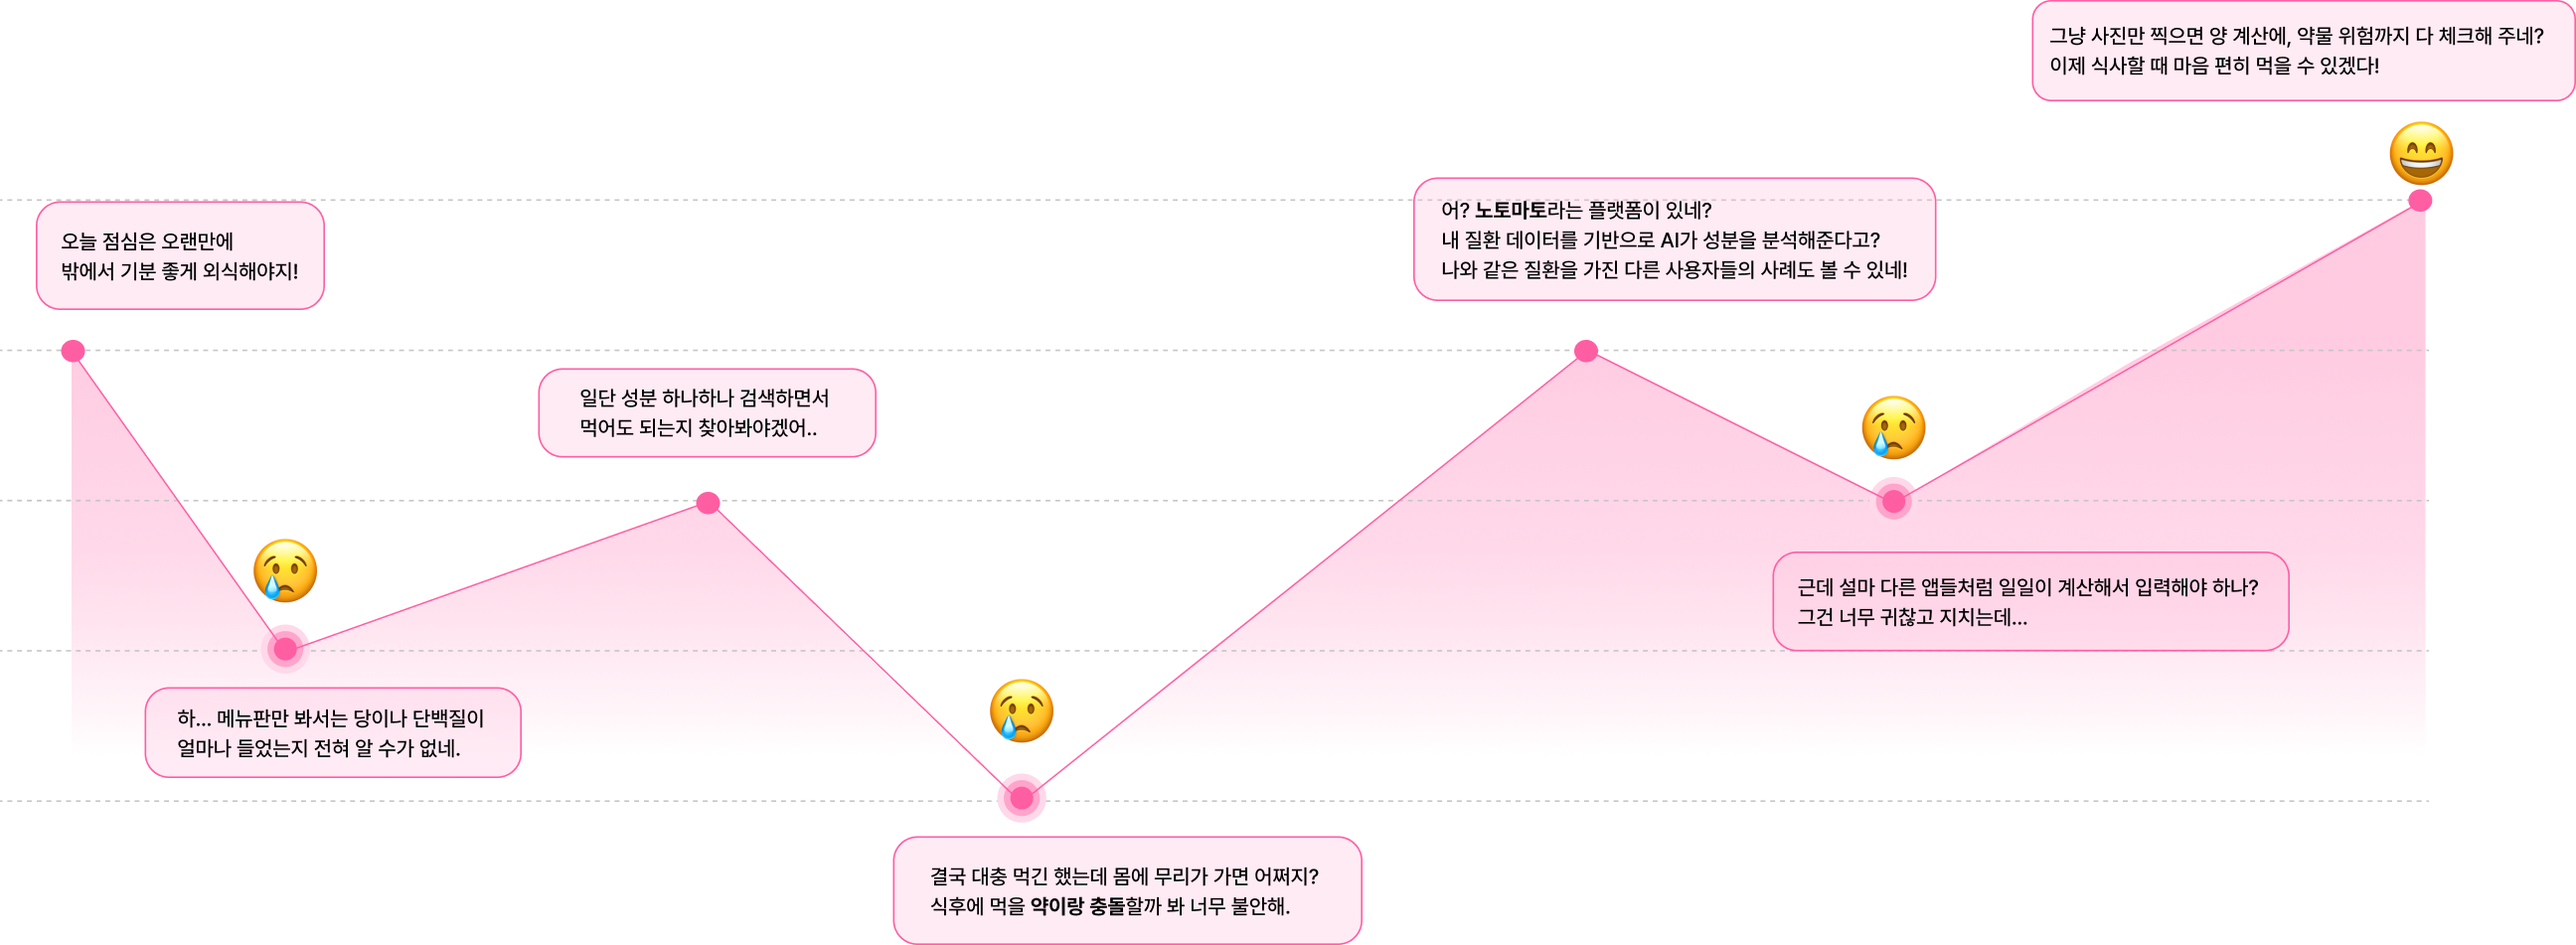
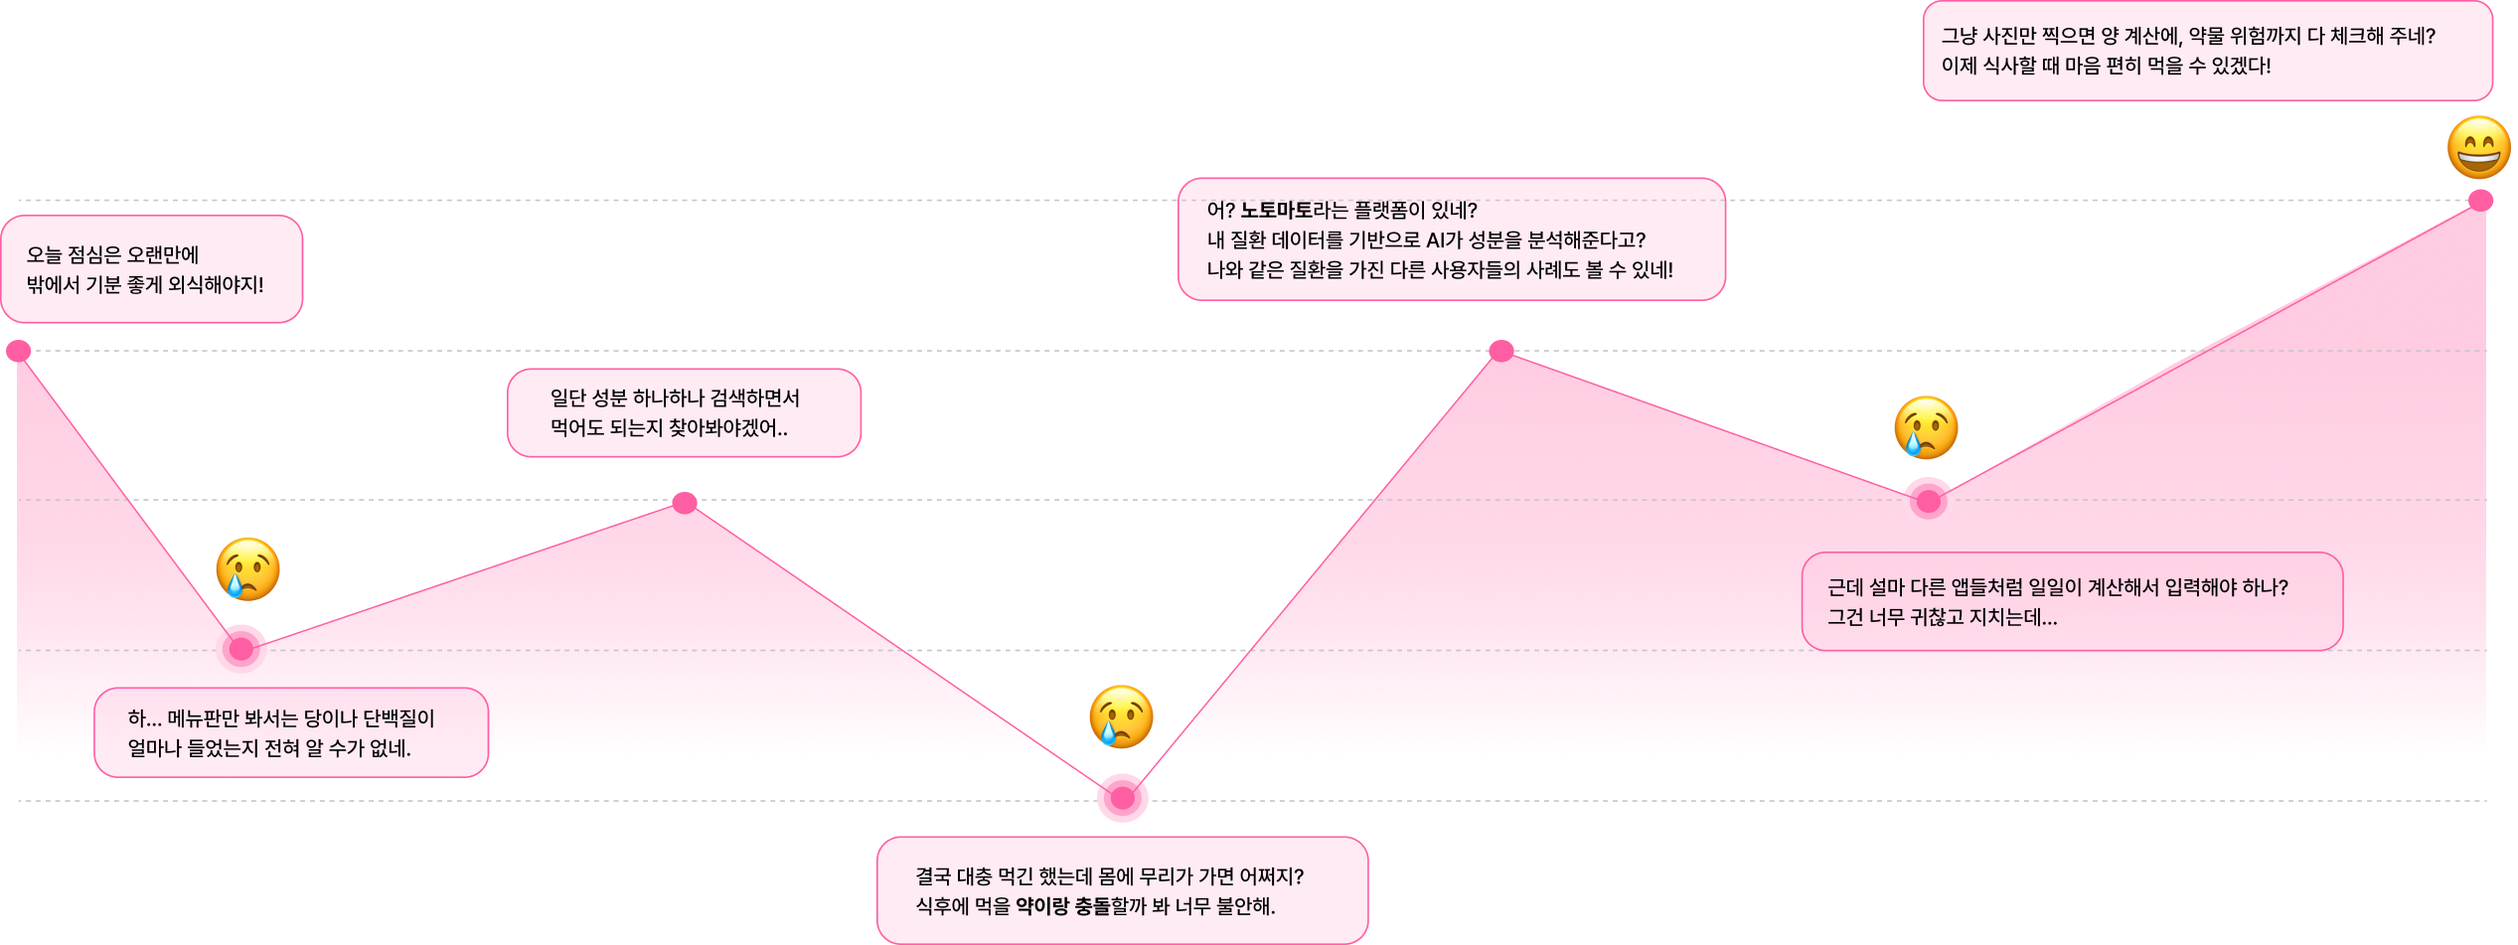
up

diff --git a/src/styles/appShowingPage.css b/src/styles/appShowingPage.css
@@ -224,8 +224,8 @@
 
 .home-visual {
   position: relative;
-  width: 86.8vw;
-  height: 88.5vw;
+  width: 66.8vw;
+  height: 95vw;
   margin: 4.8vw auto 0;
 }
 
@@ -235,6 +235,16 @@
   left: 53%;
   width: 51.4%;
   transform: translateX(-50%);
+}
+
+.home-combined-img {
+  position: absolute;
+  top: 0;
+  left: 50%;
+  z-index: 1;
+  width: 87.6%;
+  transform: translateX(-50%);
+  pointer-events: none;
 }
 
 .home-side-img {
@@ -274,22 +284,22 @@
 
 .home-note-left-copy {
   --copy-top: -50px;
-  --copy-left: 0;
+  --copy-left: -57%;
 }
 
 .home-note-mid-copy {
-  --copy-top: -20px;
-  --copy-left: 0;
+  --copy-top: -4px;
+  --copy-left: 15%;
 }
 
 .home-note-bottom-a-copy {
   --copy-top: 20px;
-  --copy-left: -70px;
+  --copy-left: -20%;
 }
 
 .home-note-bottom-b-copy {
-  --copy-top: -20px;
-  --copy-left: -16px;
+  --copy-top: -25px;
+  --copy-left: 2%;
 }
 
 .home-note-top-copy {
@@ -416,7 +426,7 @@
 
 .service-ai-diet-section {
   position: relative;
-  height: 132vw;
+  height: 150vw;
   padding: 8vw 6.7vw 7vw;
 }
 
@@ -439,19 +449,20 @@
 
 .service-ai-diet-map {
   position: absolute;
-  /* top: 3.8vw; */
-  left: 12.6vw;
+  top: 5%;
+  left: 50%;
   z-index: 1;
-  width: 74.6vw;
+  width: 80vw;
+  transform: translateX(-50%);
   pointer-events: none;
 }
 
 .diet-detail-group {
   position: absolute;
-  top: 71.8vw;
+  top: 73.5vw;
   left: 36.7vw;
   z-index: 2;
-  width: 55.8vw;
+  width: 22vw;
   padding-top: 0;
 }
 
@@ -463,7 +474,7 @@
 
 .diet-caption {
   position: absolute;
-  bottom: -122px;
+  bottom: 8.3vw;
   width: 28%;
   color: #333;
   text-align: center;
@@ -496,20 +507,20 @@
 } */
 
 .caption-one {
-  left: 31.8%;
+  left: 30.8%;
 }
 
 .caption-two {
-  left: 50.6%;
+  left: 48.6%;
 }
 
 .caption-three {
-  right: 2.6%;
+  right: 5.6%;
 }
 
 .service-report-section {
   position: relative;
-  height: 66vw;
+  height: 58.5vw;
   min-height: 0;
   padding: 5.5vw 6.7vw;
   top: 30vh;
@@ -521,7 +532,7 @@
   left: 8px;
   right: 8px;
   bottom: 8px;
-  height: 36.5%;
+  height: 40.5%;
   border-radius: clamp(34px, 2.25vw, 44px);
   background: var(--detail-pink);
 }
@@ -529,7 +540,7 @@
 .report-copy {
   position: absolute;
   left: 6.7vw;
-  bottom: 5vw;
+  bottom: 6vw;
   z-index: 2;
   width: 36vw;
   color: #fff;
@@ -567,15 +578,15 @@
 
 .report-combined {
   position: absolute;
-  right: 5.9%;
-  top: 5.2%;
+  right: 6.6%;
+  top: -8%;
   z-index: 3;
-  width: 57vw;
-  max-width: 1095px;
+  width: 55.3vw;
+  max-width: 1062px;
 }
 
 .note-report-a {
-  top: 17%;
+  top: 4%;
   left: 16.2%;
   color: var(--detail-gray);
   font-weight: 400;
@@ -667,7 +678,7 @@
 .feed-visual {
   position: relative;
   width: 86.8vw;
-  height: 104vw;
+  height: 74vw;
   margin: 5.3vw auto 0;
 }
 
@@ -687,22 +698,22 @@
 }
 
 .note-feed-a {
-  top: 16.6%;
-  left: 58.8%;
+  top: 24.5%;
+  left: 59.8%;
   color: var(--detail-gray);
   font-weight: 400;
 }
 
 .note-feed-b {
-  top: 25.6%;
-  left: 51%;
+  top: 40.6%;
+  left: 47%;
   color: var(--detail-gray);
   font-weight: 400;
 }
 
 .note-feed-c {
-  top: 36.4%;
-  left: 51%;
+  top: 60.7%;
+  left: 47%;
   color: var(--detail-gray);
   font-weight: 400;
 }
@@ -741,6 +752,7 @@
 
   .home-main-img,
   .home-side-img,
+  .home-combined-img,
   .report-main,
   .report-side,
   .report-combined,
@@ -789,6 +801,7 @@
     display: block;
     width: min(100%, 680px);
     margin: 42px auto 0;
+    transform: none;
   }
 
   .service-ai-copy {

diff --git a/src/pages/ServiceDetailPage.jsx b/src/pages/ServiceDetailPage.jsx
@@ -6,10 +6,8 @@ import serviceNotomato from "../img/service/notomato.png";
 import loginPhone from "../img/service/login_phone.png";
 import loginPhone2 from "../img/service/login_phone2.png";
 import loading from "../img/service/loading.png";
-import mainHome from "../img/service/mainHome.png";
-import mainHomeSide from "../img/service/mainHome_side.png";
-import aiCameraDiet from "../img/service/AICamera&diet.png";
-import diet2 from "../img/service/diet_2.png";
+import mainHomeSub from "../img/service/mainHome&sub.png";
+import aiScanDiet from "../img/service/Aiscan+diet.png";
 import report from "../img/service/report.png";
 import feed from "../img/service/feed.png";
 import "../styles/appShowingPage.css";
@@ -101,14 +99,9 @@ export function ServiceSections({ includeHero = true } = {}) {
         </div>
         <div className="home-visual">
           <img
-            className="home-main-img"
-            src={mainHome}
-            alt="notomato main home screen"
-          />
-          <img
-            className="home-side-img"
-            src={mainHomeSide}
-            alt="notomato side menu screen"
+            className="home-combined-img"
+            src={mainHomeSub}
+            alt="notomato main home and side menu screens"
           />
           <span className="service-note note-home-left">
             <p className="home-note-copy home-note-left-copy">
@@ -160,7 +153,7 @@ export function ServiceSections({ includeHero = true } = {}) {
         </div>
         <img
           className="service-ai-diet-map"
-          src={aiCameraDiet}
+          src={aiScanDiet}
           alt="notomato ai scan and diet flow"
         />
         <div className="diet-detail-group">
@@ -171,7 +164,6 @@ export function ServiceSections({ includeHero = true } = {}) {
               환경을 설계합니다.
             </p>
           </div>
-          <img src={diet2} alt="notomato diet detail screens" />
         </div>
         <span className="diet-caption caption-one">
           복약·식단 데이터를 통합 분석하여
@@ -220,13 +212,8 @@ export function ServiceSections({ includeHero = true } = {}) {
       {/* <section className="service-user-report-section">
         <img
           className="user-report-main"
-          src={mainHome}
-          alt="notomato user report main"
-        />
-        <img
-          className="user-report-side"
-          src={mainHomeSide}
-          alt="notomato user report side menu"
+          src={mainHomeSub}
+          alt="notomato user report main and side menu"
         />
 
         <p className="user-report-note note-user-a">

diff --git a/src/styles/mainPage.css b/src/styles/mainPage.css
@@ -551,21 +551,26 @@ section[id] {
   margin: clamp(116px, 12vw, 230px) calc(var(--page-x) * -1) 0;
   padding: clamp(96px, 9vw, 178px) var(--page-x) 0;
   text-align: center;
+  overflow: visible;
 }
 
 .solution-arc::before {
   content: "";
   position: absolute;
-  inset: 0 0 auto;
+  top: 0;
+  left: 50%;
   z-index: 0;
-  height: clamp(420px, 46vw, 880px);
-  border-radius: 50% 50% 0 0 / 20% 20% 0 0;
-  background: radial-gradient(
-    ellipse at top,
-    rgb(255 90 160 / 18%) 0%,
-    rgb(255 173 208 / 12%) 42%,
-    rgba(255, 255, 255, 0) 72%
+  width: 150vw;
+  height: clamp(320px, 31vw, 600px);
+  border-radius: 50% 50% 0 0 / 100% 100% 0 0;
+  background: linear-gradient(
+    180deg,
+    rgba(255, 214, 232, 0.72) 0%,
+    rgba(255, 246, 250, 0.72) 58%,
+    rgba(255, 255, 255, 0) 100%
   );
+  transform: translateX(-50%);
+  pointer-events: none;
 }
 
 .solution-arc > * {
@@ -630,18 +635,13 @@ section[id] {
 .solution-arc::after {
   content: "";
   position: absolute;
-  top: clamp(-150px, -8vw, -92px);
+  top: 0;
   left: 50%;
+  z-index: 1;
   width: 1px;
-  height: 130px;
+  height: clamp(78px, 7vw, 140px);
   border-left: 1px dashed #ffb3d3;
-  background: linear-gradient(to top, #ff72ad 0 54%, rgba(255, 114, 173, 0));
-  transform: translateX(-50%);
-  mask-image: repeating-linear-gradient(
-    to top,
-    #000 0 7px,
-    transparent 7px 14px
-  );
+  transform: translate(-50%, -100%);
 }
 
 .solution-dot {

diff --git a/src/pages/MainPage.jsx b/src/pages/MainPage.jsx
@@ -19,6 +19,7 @@ function MainPage() {
     <main className="main-page detail-page">
       <MainHeader />
       <HeroSection />
+      <VideoSection />
       <BackgroundSection />
       <ResearchIntroSection />
       <DiseaseScroller />
@@ -28,7 +29,6 @@ function MainPage() {
       <ProcessSections />
       <DesignSystemSections />
       <ServiceSections includeHero={false} />
-      <VideoSection />
       <Footer />
       <TopButton />
     </main>
